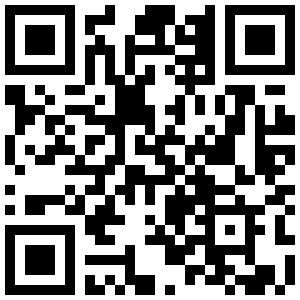
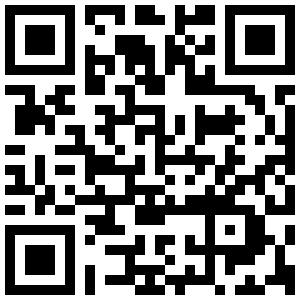
2022/5/2  16:06 完成了二维码的扫码

diff --git a/teashop_project/src/main/java/com/guet/pay/WXPay.java b/teashop_project/src/main/java/com/guet/pay/WXPay.java
@@ -1,5 +1,6 @@
 package com.guet.pay;
 
+import com.alibaba.fastjson.JSONObject;
 import com.google.zxing.BarcodeFormat;
 import com.google.zxing.EncodeHintType;
 import com.google.zxing.MultiFormatWriter;
@@ -16,10 +17,7 @@ import java.io.File;
 import java.io.FileOutputStream;
 import java.net.InetAddress;
 import java.net.UnknownHostException;
-import java.util.HashMap;
-import java.util.Map;
-import java.util.SortedMap;
-import java.util.TreeMap;
+import java.util.*;
 
 public class WXPay {
 
@@ -148,7 +146,7 @@ public class WXPay {
             e.printStackTrace();
         }
         //生成的随机字符串
-        String nonce_str = WXPayUtil.generateNonceStr();
+        String nonce_str = order.getOrderNumber();
         //获取客户端的ip地址
         //获取本机的ip地址
         InetAddress addr = null;
@@ -161,7 +159,19 @@ public class WXPay {
         //支付金额，需要转成字符串类型，否则后面的签名会失败
         int total_fee = (int) (order.getOrderPrice()*100);//100分：1块钱
         //商品描述
-        String body = "蜜雪冰城";
+        String orderName = order.getOrderName();
+
+        List<String> list = JSONObject.parseArray(orderName, String.class);
+        Map<String, Integer> map = new HashMap<>();
+        for (String s : list) {
+            if (map.containsKey(s)){
+                Integer integer = map.get(s);
+                map.put(s,++integer);
+            }else {
+                map.put(s,1);
+            }
+        }
+        String body = JSONObject.toJSONString(map);
         //商户订单号
         String out_trade_no = order.getOrderNumber();
         //统一下单接口参数
